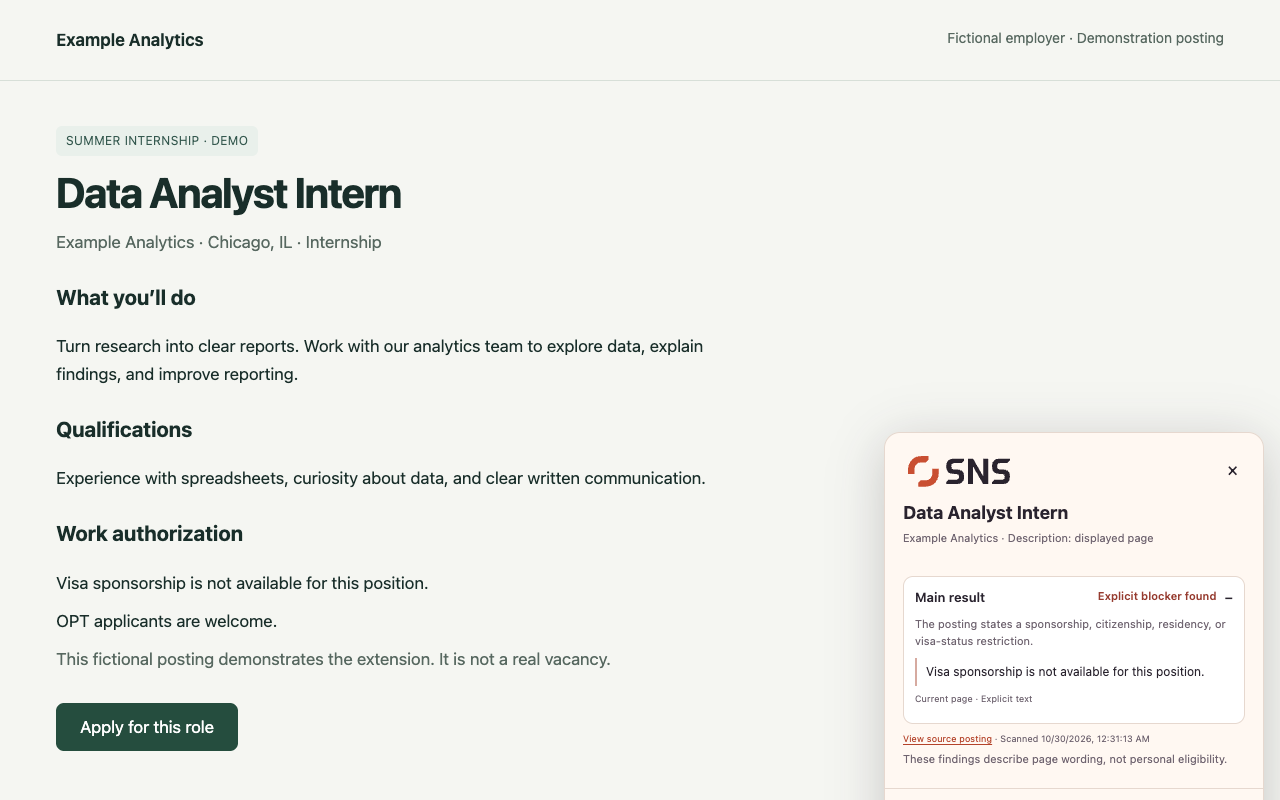
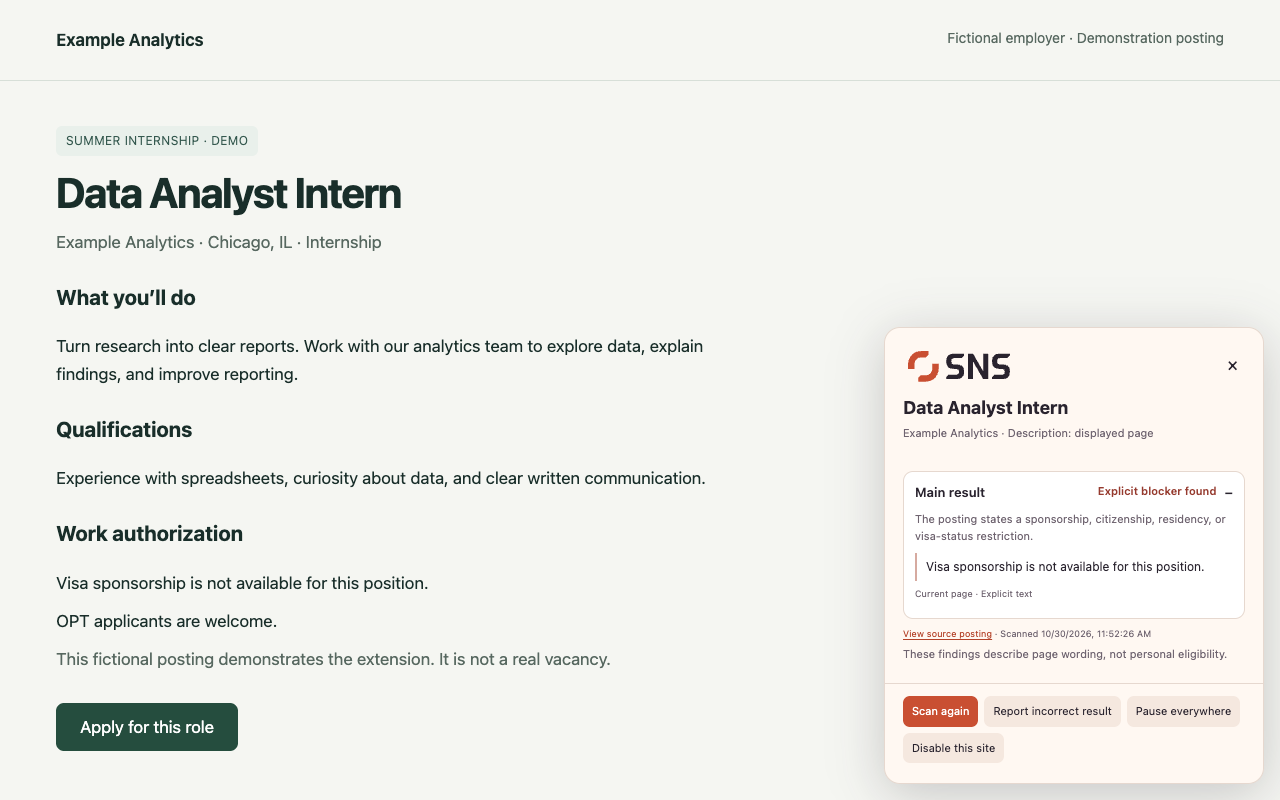
fix: clarify reporting disclosures and refresh candidate evidence

Changed region(s): [[0.6875, 0.4375, 1.0, 1.0]]

diff --git a/extension/privacy.html b/extension/privacy.html
@@ -5,7 +5,8 @@
 <h2>Automatic page access</h2><p>The extension has access to HTTP and HTTPS pages to recognize jobs automatically, including links from different sources. It inspects visible page text and job metadata in the top-level document. Standard form values, editable answers, file uploads, and hidden content are excluded. Page text can itself contain personal information; exclusion rules are not a guarantee about everything a website displays.</p>
 <p>Local scan text and findings stay in tab memory and are replaced as you navigate or rescan. They are not automatically sent to the developer or saved as a browsing history. You can pause scanning everywhere or disable a site. Chrome’s own site-access controls can further restrict access. A narrowly matched Ashby application may fetch its official job overview from the same website to recover a missing description; the extension does not send the extracted text to an analysis service.</p>
 <h2>Saved settings and optional reports</h2><p>Chrome local storage saves scanning preferences, disabled site names, and whether onboarding was dismissed. Preferences saved for removed features may remain stored but are ignored. If you explicitly download an incorrect-result report, it includes role details, findings, quotations, scan time, and the page address with query and fragment removed. It excludes the full extraction and form answers. The file stays wherever you save it. Opening the separate reporting form sends no report or job details, though the visit makes an ordinary web request. You must import and review the file, then press Submit report to send it.</p>
-<p>A submitted report can include the posting URL, title, employer, location, correction category and explanation, expected outcome, relevant public passage, and reviewed diagnostic fields. You may separately provide an email address for manual follow-up; no automatic email is sent. Eniola receives reports in a private inbox using Cloudflare for processing and storage. Temporary network information is processed to limit abuse. Reports and separate contact details are deleted within a day of the earlier of 180 days after receipt or 90 days after closure. Temporary recovery copies and Cloudflare operational metadata may persist under provider practices. Sanitized confirmed issues may remain in GitHub without reporter identity. To request deletion, contact <a href="mailto:eni.akinpel@gmail.com">eni.akinpel@gmail.com</a>; include your receipt, which helps locate a report but does not by itself prove ownership.</p>
+<p>A submitted report can include the posting URL, title, employer, location, role identifier, correction category and explanation, expected outcome, relevant public passage, and reviewed diagnostic fields. You may separately provide an email address for manual follow-up; no automatic email is sent. Eniola receives reports in a private inbox using Cloudflare for processing and storage. When reporting is enabled, Cloudflare Turnstile processes technical signals for visitor verification. Temporary network information is processed to limit abuse. Reports and separate contact details are deleted within a day of the earlier of 180 days after receipt or 90 days after first closure. Temporary recovery copies and Cloudflare operational metadata may persist under provider practices. Sanitized confirmed issues may remain in GitHub without reporter identity. To request deletion, contact <a href="mailto:eni.akinpel@gmail.com">eni.akinpel@gmail.com</a>; include your receipt, which helps locate a report but does not by itself prove ownership.</p>
+<p>After report contents are removed, a minimal deletion record containing only the random receipt ID and deletion/expiry times is retained for recovery for 14 days, then removed by scheduled cleanup.</p>
 <h2>Company research</h2><p>Company research is deferred and inactive in this extension. It does not send employer or role details to a research service, fetch company policy pages, or send search queries to a provider. Research code left from earlier versions is not used by the active extension. A cache created by a separately run older service remains on disk until you remove that service’s configured cache directory. Uninstalling removes extension storage; downloaded reports remain where saved.</p>
 <h2>Use of information</h2><p>This build uses the described information for local job analysis, settings, and reports you explicitly choose to submit. It contains no sale, advertising, analytics, or unrelated transfer mechanism. The use of information received from Google APIs adheres to the Chrome Web Store User Data Policy, including the Limited Use requirements. Future changes to data handling require updated disclosures.</p>
 </main><footer><a href="help.html">Help and limitations</a></footer></body></html>

diff --git a/reporting/public/index.html b/reporting/public/index.html
@@ -10,7 +10,7 @@
 <body>
   <main>
     <header><p class="eyebrow">Sponsor Not Sponsor</p><h1>Report an incorrect result</h1></header>
-    <p>Import an SNS diagnostic or enter the vacancy manually. Selecting a file does not upload it; nothing is sent until you review the fields and press Submit report.</p>
+    <p>Import an SNS diagnostic or enter the vacancy manually. Selecting a file does not upload it; report contents are sent only after you review the fields and press Submit report. Visiting this site makes ordinary web requests, and Cloudflare Turnstile processes technical signals for visitor verification when reporting is enabled.</p>
     <div id="errors" class="errors" role="alert" tabindex="-1" hidden></div>
 
     <form id="report-form">
@@ -64,7 +64,8 @@
         <textarea id="diagnostic-editor" hidden spellcheck="false" aria-describedby="diagnostic-help"></textarea>
         <p id="diagnostic-help">Review all diagnostic fields here. Editing or removing them marks the report partial. Imported values are claims, not verified results.</p>
         <button id="remove-diagnostic" type="button" hidden>Remove diagnostic fields</button>
-        <p>Your report, optional email, public posting information, and reviewed diagnostic fields will be sent to Eniola and stored privately using Cloudflare. Data is deleted within a day of the earlier of 180 days after receipt or 90 days after closure. Recovery copies may persist temporarily. Temporary network information is processed for abuse prevention. Sanitized confirmed issues may be retained in GitHub. No automatic email is sent. For support or a deletion request, contact eni.akinpel@gmail.com and provide your receipt; possession of a receipt alone does not verify ownership.</p>
+        <p>Your report, optional email, public posting information, and reviewed diagnostic fields will be sent to Eniola and stored privately using Cloudflare. Report contents and contact details are deleted within a day of the earlier of 180 days after receipt or 90 days after first closure. Recovery copies may persist temporarily. Temporary network information is processed for abuse prevention. Sanitized confirmed issues may be retained in GitHub without reporter identity. No automatic email is sent. For support or a deletion request, contact eni.akinpel@gmail.com and provide your receipt; possession of a receipt alone does not verify ownership.</p>
+        <p>After report contents are removed, a minimal deletion record containing only the random receipt ID and deletion/expiry times is retained for recovery for 14 days, then removed by scheduled cleanup. Cloudflare recovery and operational metadata may persist under provider practices.</p>
         <p>Removing URL queries does not remove sensitive information in URL paths. Review the posting and citation URLs and remove any personal identifiers.</p>
         <label class="confirm"><input id="notice-confirmed" type="checkbox" required> I reviewed these fields and understand what will be submitted.</label>
       </section>

diff --git a/release/public-site/site/privacy.html b/release/public-site/site/privacy.html
@@ -33,7 +33,8 @@
 
     <h2>Optional incorrect-result reports</h2>
     <p>A local report is created only when you choose to download it. It includes role details, findings, quoted evidence, scan time, and the page address after its query, fragment, username, and password are removed. It excludes the full extraction and form answers. The file stays wherever you save it. Opening the reporting form sends no report or job details, though the visit makes an ordinary web request. You must import and review the file, then press Submit report to send it. Nothing is automatically submitted.</p>
-    <p>A submitted report may contain a posting URL, title, employer, location, correction category and explanation, expected outcome, relevant public passage, and reviewed diagnostic fields. An optional email is stored separately for manual follow-up; no automatic email is sent. Temporary network information is processed for abuse prevention. Reports and contacts are deleted within a day of the earlier of 180 days after receipt or 90 days after closure. Temporary recovery copies and Cloudflare operational metadata may persist under provider practices. Sanitized confirmed issues may be retained in GitHub without reporter identity. For support or deletion requests, email <a href="mailto:eni.akinpel@gmail.com">eni.akinpel@gmail.com</a> with your receipt; possession of a receipt alone does not verify ownership.</p>
+    <p>A submitted report may contain a posting URL, title, employer, location, role identifier, correction category and explanation, expected outcome, relevant public passage, and reviewed diagnostic fields. An optional email is stored separately for manual follow-up; no automatic email is sent. When reporting is enabled, Cloudflare Turnstile processes technical signals for visitor verification. Temporary network information is processed for abuse prevention. Reports and contacts are deleted within a day of the earlier of 180 days after receipt or 90 days after first closure. Temporary recovery copies and Cloudflare operational metadata may persist under provider practices. Sanitized confirmed issues may be retained in GitHub without reporter identity. For support or deletion requests, email <a href="mailto:eni.akinpel@gmail.com">eni.akinpel@gmail.com</a> with your receipt; possession of a receipt alone does not verify ownership.</p>
+    <p>After report contents are removed, a minimal deletion record containing only the random receipt ID and deletion/expiry times is retained for recovery for 14 days, then removed by scheduled cleanup.</p>
 
     <h2>Company research</h2>
     <p>Company research is deferred and inactive in this version. The extension does not send employer or role details to a research service, fetch company policy pages, or send search queries to a provider. Research code retained elsewhere in the project is not used by the active extension.</p>

diff --git a/tests/reporting-integration.test.ts b/tests/reporting-integration.test.ts
@@ -18,7 +18,7 @@ test('real local D1: concurrent cap/retries, private inbox, revision checks, ret
       for (const statement of statements) await db.prepare(statement).run();
     }
     const env: PublicEnv = {REPORTS:db,INTAKE_ENABLED:'true',PUBLIC_ORIGIN:'https://reports.example',TURNSTILE_SECRET:'test',NETWORK_KEY_SECRET:'fictional-network-key',TURNSTILE_EXPECTED_HOSTNAME:'reports.example',TURNSTILE_EXPECTED_ACTION:'report-submit',DAILY_ACCEPTANCE_CAP:'2',BURST_LIMITER:{async limit(){return {success:true}}}};
-    const draft = (key:string,email='reporter@example.com') => ({schemaVersion:1,noticeVersion:'2026-10-27',submissionKey:key,turnstileToken:'test',category:'other',expectedOutcome:'Missing badge',explanation:'Fictional report',relevantPassage:'No public passage available',posting:{url:'https://example.com/jobs/1'},email});
+    const draft = (key:string,email='reporter@example.com') => ({schemaVersion:1,noticeVersion:'2026-10-30',submissionKey:key,turnstileToken:'test',category:'other',expectedOutcome:'Missing badge',explanation:'Fictional report',relevantPassage:'No public passage available',posting:{url:'https://example.com/jobs/1'},email});
     const request = (body:unknown) => new Request(env.PUBLIC_ORIGIN+'/api/reports',{method:'POST',headers:{origin:env.PUBLIC_ORIGIN,'content-type':'application/json','cf-connecting-ip':'192.0.2.1'},body:JSON.stringify(body)});
     const same = await Promise.all(Array.from({length:4},()=>handlePublicRequest(request(draft('same')),env,async()=>true)));
     assert.ok(same.every(result=>[200,201].includes(result.status)));

diff --git a/tests/report-schema.test.ts b/tests/report-schema.test.ts
@@ -6,7 +6,7 @@ import type { JobRecord } from '../src/types';
 
 const valid = () => ({
   schemaVersion: 1,
-  noticeVersion: '2026-10-27',
+  noticeVersion: '2026-10-30',
   submissionKey: 'retry-123',
   turnstileToken: 'test-token',
   category: 'sponsorship',
@@ -33,6 +33,7 @@ test('submission contract returns only allowed bounded fields and sanitizes the 
 });
 
 test('submission contract rejects unknown and admin-controlled fields', () => {
+  assert.throws(() => parseReportSubmission({ ...valid(), noticeVersion: '2026-10-27' }), /current privacy notice/);
   assert.throws(() => parseReportSubmission({ ...valid(), status: 'closed' }), /status is not allowed/);
   assert.throws(() => parseReportSubmission({ ...valid(), posting: { ...valid().posting, issueUrl: 'https://example.com' } }), /issueUrl is not allowed/);
 });

diff --git a/reporting/public/app.js b/reporting/public/app.js
@@ -1,6 +1,6 @@
 import { parseReportSubmission, sanitizeReportUrl } from './schema.js';
 const MAX_BYTES = 256 * 1024;
-const NOTICE_VERSION = '2026-10-27';
+const NOTICE_VERSION = '2026-10-30';
 const form = document.querySelector('#report-form');
 const file = document.querySelector('#report-file');
 const errors = document.querySelector('#errors');

diff --git a/shared/report-schema.ts b/shared/report-schema.ts
@@ -1,6 +1,6 @@
 export const MAX_REPORT_BYTES = 256 * 1024;
 export const REPORT_SCHEMA_VERSION = 1;
-export const REPORT_NOTICE_VERSION = '2026-10-27';
+export const REPORT_NOTICE_VERSION = '2026-10-30';
 
 export const reportCategories = [
   'sponsorship', 'cpt-opt', 'role-employer', 'evidence', 'missing-badge', 'other',

diff --git a/tests/reporting-public.test.ts b/tests/reporting-public.test.ts
@@ -18,7 +18,7 @@ class FakeDatabase {
 
 const submission = () => ({
   schemaVersion: 1,
-  noticeVersion: '2026-10-27',
+  noticeVersion: '2026-10-30',
   submissionKey: 'retry-123',
   turnstileToken: 'challenge-token',
   category: 'sponsorship',

diff --git a/release/CHROME_WEB_STORE_DASHBOARD_WORKSHEET.md b/release/CHROME_WEB_STORE_DASHBOARD_WORKSHEET.md
@@ -3,7 +3,7 @@
 Reporting-flow draft: October 30, 2026
 Package: `release/sponsor-not-sponsor-1.0.1.zip`
 Version: `1.0.1`
[2 lines of base64/hex data omitted]
 
 This worksheet is a review draft for the reporting flow. The package and hash above identify the October 30 local candidate, which passed all seven extracted-package checks. Version 1.0.1 is retained for local review; the final upload version must be checked against the Store before submission. Public disclosures have not been published, and intake remains paused. Data-use selections require publisher review in the dashboard. Text in `[OWNER: ...]` brackets requires genuine owner or publisher input; do not submit the brackets.
 
@@ -106,7 +106,7 @@ For selected data types, select **App functionality** as the purpose. Do not sel
 ### Data handling and retention explanation
 
 ```text
-Analysis runs locally in the browser. Scan text and findings remain in tab memory and are replaced on navigation or rescan. Settings persist in Chrome local storage until changed or the extension is uninstalled. A narrowly matched Ashby application may request the same vacancy's official overview from the same website; extracted text is not sent to an analysis service. Download report creates a local JSON file. Opening the separate reporting form sends no report or job details, though the visit makes an ordinary web request; the user must import or enter details, review them, and press Submit report. A submitted correction can include the public posting URL and details, explanation, relevant passage, reviewed diagnostic, and optional separately stored email. Eniola receives it through Cloudflare. Temporary network information is processed for abuse prevention. Reports and contacts are deleted within a day of the earlier of 180 days after receipt or 90 days after closure; temporary recovery copies and provider metadata may persist. Sanitized confirmed issues may be retained without reporter identity. There is no analytics, advertising, sale, or unrelated transfer mechanism.
+Analysis runs locally in the browser. Scan text and findings remain in tab memory and are replaced on navigation or rescan. Settings persist in Chrome local storage until changed or the extension is uninstalled. A narrowly matched Ashby application may request the same vacancy's official overview from the same website; extracted text is not sent to an analysis service. Download report creates a local JSON file. Opening the separate reporting form sends no report or job details, though the visit makes an ordinary web request; the user must import or enter details, review them, and press Submit report. A submitted correction can include the public posting URL, title, employer, location, role identifier, category, expected outcome, explanation, relevant passage, reviewed diagnostic, and optional separately stored email. Eniola receives it through Cloudflare. When reporting is enabled, Cloudflare Turnstile processes technical signals for visitor verification. Temporary network information is processed for abuse prevention. Reports and contacts are deleted within a day of the earlier of 180 days after receipt or 90 days after first closure. A minimal deletion record containing only the random receipt ID and deletion/expiry times is retained for recovery for 14 days, then removed by scheduled cleanup. Temporary recovery copies and provider metadata may persist. Sanitized confirmed issues may be retained without reporter identity. There is no analytics, advertising, sale, or unrelated transfer mechanism.
 ```
 
 ### Limited Use and disclosure certifications
@@ -163,7 +163,7 @@ Deferred publishing is the cautious option because approval will not immediately
 - [ ] `[OWNER/HUMAN REVIEWERS]` Registered independent real-world validation and human accessibility review are complete.
 - [ ] `[OWNER]` Product name, logo, screenshots, and website-content rights/trademark clearance are approved.
 - [ ] `[OWNER]` Listing copy, screenshots, privacy selections (including optional email and submitted content), permissions, and distribution choices match the uploaded ZIP and separate form.
[2 lines of base64/hex data omitted]
 - [ ] `[PUBLISHER]` Uploaded manifest shows version 1.0.1, `storage`, and HTTP/HTTPS content-script access.
 - [ ] `[PUBLISHER]` Submission receipt/status and any reviewer correspondence are recorded.
 

diff --git a/release/UPDATE-1.0.1.md b/release/UPDATE-1.0.1.md
@@ -2,6 +2,17 @@
 
 Prepared October 20, 2026 (America/Chicago).
 
+October 30 reporting follow-up: the patch-only record below is historical.
+The current local candidate also adds the separate optional reporting-form link
+and revised disclosures; its SHA-256 is
[1 lines of base64/hex data omitted]
+All 226 tests and seven extracted-package checks passed. Use the current
+[worksheet](CHROME_WEB_STORE_DASHBOARD_WORKSHEET.md) and
+[launch record](../docs/REPORTING_LAUNCH_PROGRESS_2026-10-30.md), not the old
+privacy/upload instructions below. The Store's current version is unconfirmed,
+so `1.0.1` remains provisional. The owner explicitly prohibited final publishing;
+no push, Store submission or real intake enablement is authorized.
+
 ## Changes
 
 Fixed the floating badge and evidence panel bouncing between top-left and bottom-left when another tool occupies the right side and normal shadow-DOM page content sits underneath SNS. Shadow-root hit testing now excludes SNS itself after looking through page content.
